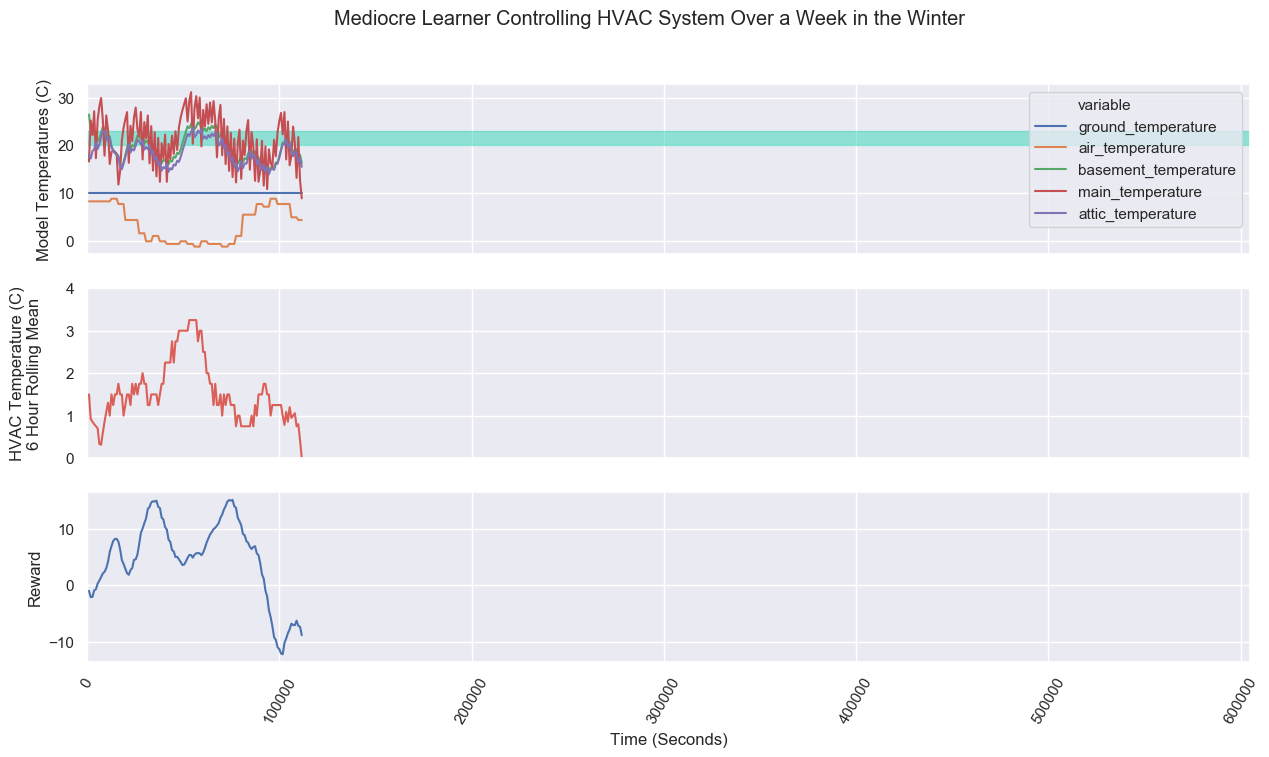
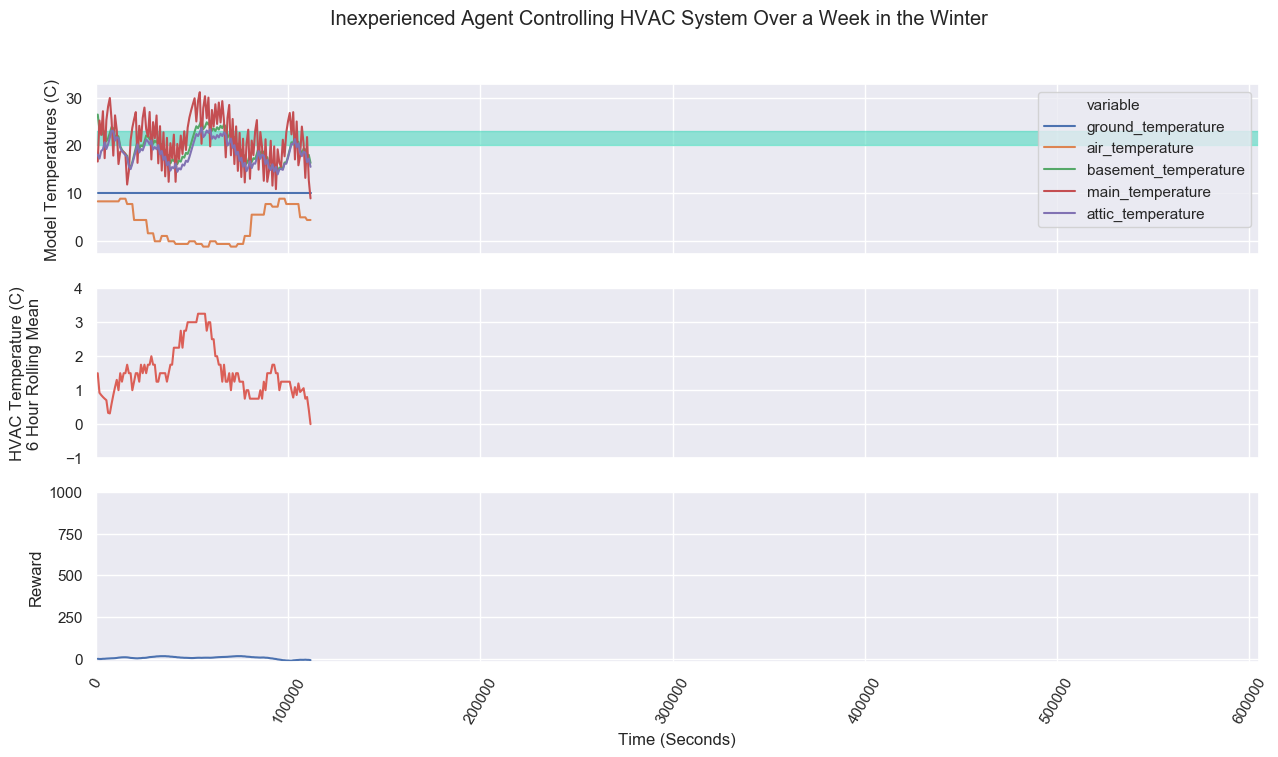
Updated plots

diff --git a/gym_hvac_tester/single_plot_plotter.py b/gym_hvac_tester/single_plot_plotter.py
@@ -32,7 +32,7 @@ def set_size(fig, size, dpi=100, eps=1e-2, give_up=2, min_size_px=10):
             return False
 
 
-def plotter(episode, results_filename, output_dir, argv=None):
+def plotter(episode, title, results_filename, output_dir, argv=None):
     sns.set(style="darkgrid")
     df = pd.read_csv(results_filename)
     df = df[df['episode'] == episode]
@@ -55,7 +55,7 @@ def plotter(episode, results_filename, output_dir, argv=None):
     reward_df = pd.melt(df[x + y_reward], id_vars=x, value_vars=y_reward)
     # Create two subplots sharing y axis
     fig, (ax1, ax2, ax3) = plt.subplots(3, sharex=True, facecolor='w', edgecolor='k', figsize=(15, 7.5))
-    fig.suptitle('Mediocre Learner Controlling HVAC System Over a Week in the Winter')
+    fig.suptitle(title)
     sns.lineplot(x='time', y='value', hue='variable', data=temperature_df, ax=ax1)
     ax1.axhspan(20, 23, color='#36D7B7', alpha=0.5)
     # ax2.step(x='time', y='value', data=action_df)
@@ -69,10 +69,12 @@ def plotter(episode, results_filename, output_dir, argv=None):
         item.set_rotation(60)
     if argv is not None:
         ax1.set_xlim(argv['xlim_left'], argv['xlim_right'])
+        ax2.set_ylim(-5, 35)
         #ax1.set_ylim(argv['temp_ylim_lower'], argv['temp_ylim_upper'])
         ax2.set_xlim(argv['xlim_left'], argv['xlim_right'])
-        ax2.set_ylim(-1, 2)
+        ax2.set_ylim(-1, 4)
         ax3.set_xlim(argv['xlim_left'], argv['xlim_right'])
+        ax3.set_ylim(-20, 1000)
         #ax3.set_ylim(argv['reward_ylim_lower'], argv['reward_ylim_upper'])
     # ax1.legend(bbox_to_anchor=(1.05, 1), loc=2, borderaxespad=0.)
     ax2.legend().set_visible(False)
@@ -114,16 +116,14 @@ def __main__(argv):
     args = parser.parse_args(argv)
     vargs = vars(args)
     arg_file_vargs = parse_config_file(vargs['config_file'])
-    for episode in range(vargs['episode_lower'], vargs['episode_upper'] + 1):
-        # TODO DELETE THIS
-        episode = 247
+    for episode, title in [(157, 'Inexperienced Agent Controlling HVAC System Over a Week in the Winter'),
+                           (247, 'Experienced Agent Controlling HVAC System Over a Week in the Summer')]:
         print('Plotting episode {}'.format(episode))
         plotter(episode,
+                title,
                 os.path.join(vargs['output_dir'], 'results.csv'),
                 vargs['output_dir'],
                 arg_file_vargs)
-        #TODO DELETE THIS
-        break
 
 
 if __name__ == '__main__':
